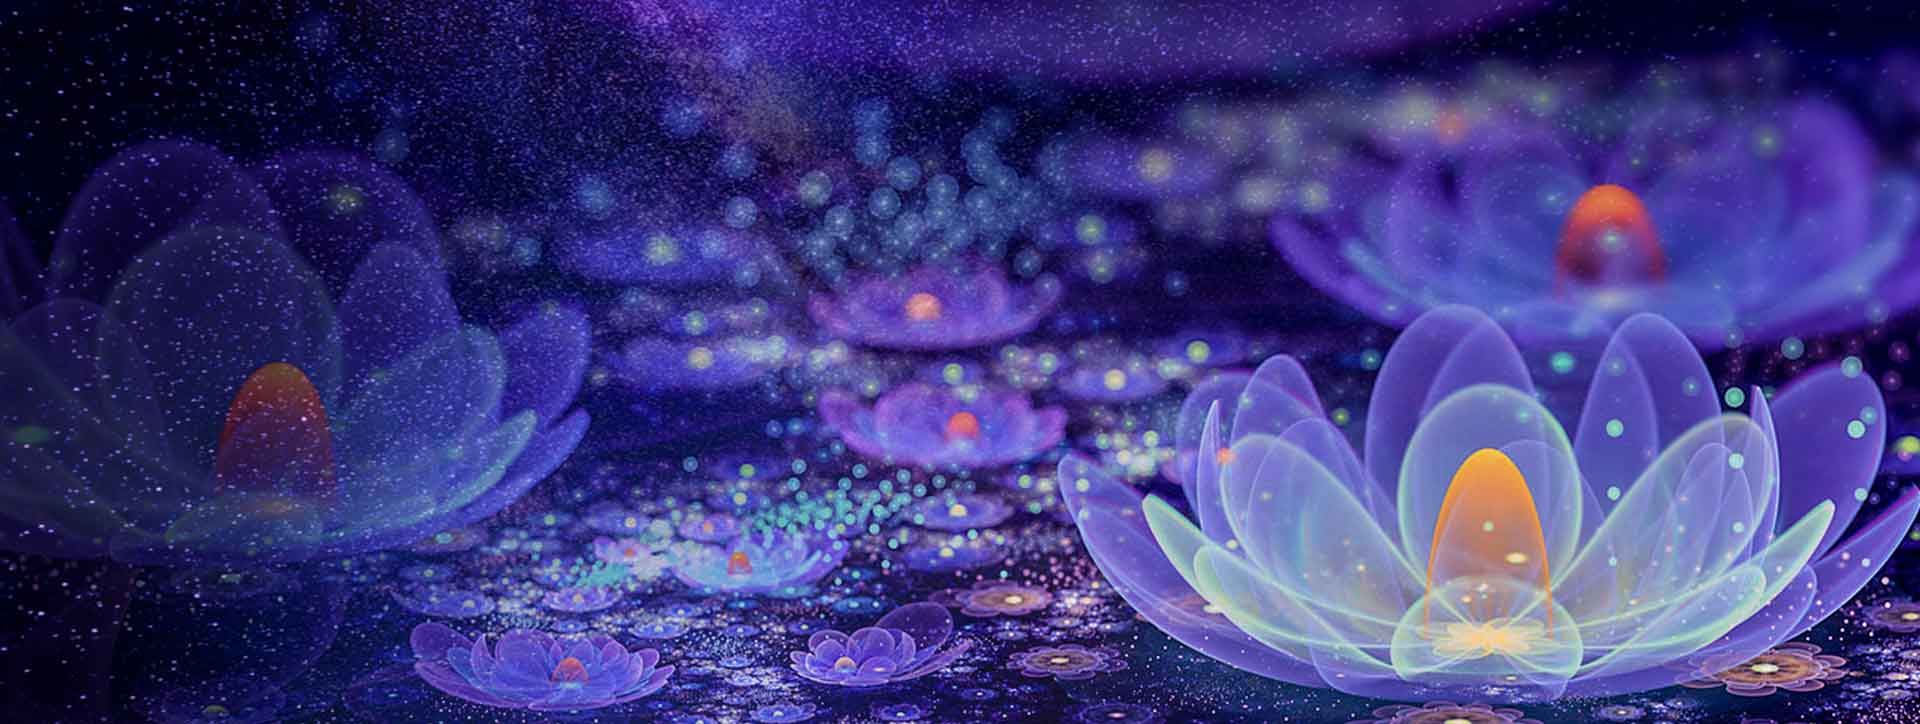
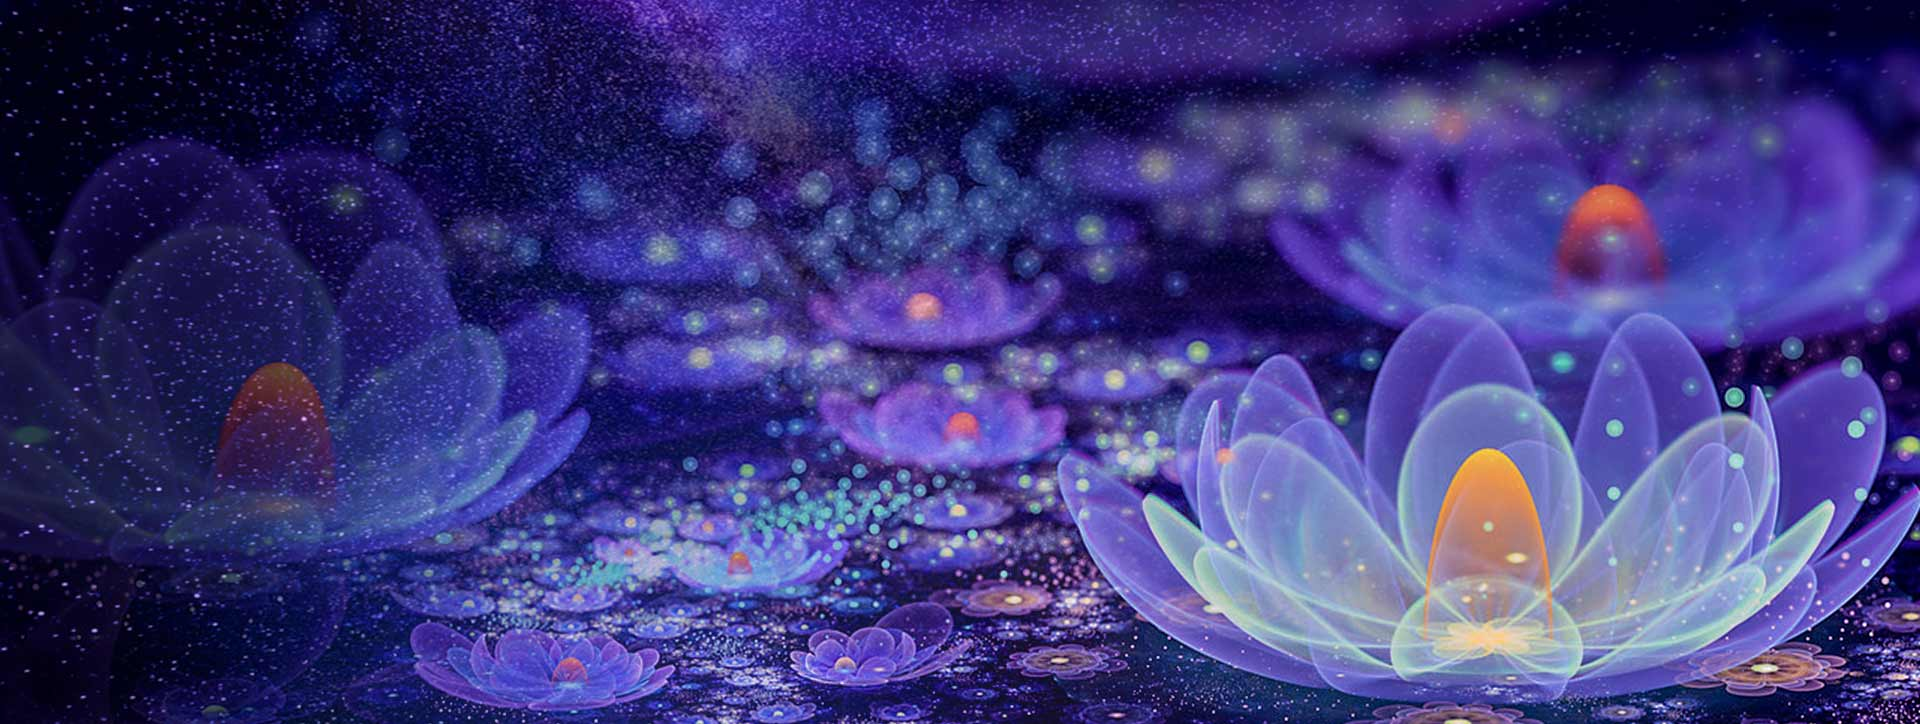
Added markup and selling for the mailing list subscription section, and updated the billboard background image to have less pixelation

Changed region(s): [[0.375, 0.9116, 0.4062, 0.942]]

diff --git a/index.html b/index.html
@@ -71,6 +71,7 @@
             <div class="col-sm-7 hero-text">
               <h1>Temperance in Chaos</h1>
               <h2>Meditations on life, love, and dealing with adversity</h2>
+              <p class="lead">We really need a lead paragraph here. It would help to have a short description before calling the user to action to view articles.</p>
               <p><a class="btn btn-lg btn-danger" href="#">View our latest posts &raquo;</a></p>
             </div><!-- .col -->
           </div><!-- .row -->
@@ -81,20 +82,69 @@
 
     <!-- Opt-in -->
     <section id="opt-in">
-      
+      <div class="container">
+        <div class="row">
+          
+        <div class="col-sm-8">
+          <p class="lead"><strong>Subscribe to our mailing list.</strong> We'll send something special as a thank you.</p>
+        </div><!-- col -->
+
+        <div class="col-sm-4">
+          <button class="btn btn-lg btn-block btn-success" data-toggle="modal" data-target="#opt-inModal">
+            Click here to subscribe
+          </button>
+        </div><!-- col -->
+
+        </div><!-- row -->
+      </div><!-- container -->
     </section><!-- #opt-in -->
 
 
-
-    <!-- Sign up Form -->
-    <section id="sign-up">
-      
-    </section><!-- #sign-up -->
 
     <!-- Footer -->
     <footer>
       
     </footer><!-- footer -->
+
+    <!-- opt-in Modal -->
+  <div class="modal fade" id="opt-inModal">
+    <div class="modal-dialog">
+      <div class="modal-content">
+        
+        <div class="modal-header">
+          <button type="button" class="close" data-dismiss="modal">
+            <span aria-hidden="true">&times;</span>
+            <span class="sr-only">Close</span>
+          </button>
+          <h4 class="modal-title" id="opt-inModalLabel">
+            <i class="fa fa-envelope"></i> Subscribe to our Mailing List
+          </h4>
+        </div><!-- modal-header -->
+
+        <div class="modal-body">
+          <p>Simply enter your name and email! As a thank you for joining us, we're going to give you one of our best articles in a PDF format, <em>for free!</em></p>
+          <form class="form-inline" role="form">
+            <div class="form-group">
+              <label class="sr-only" for="subscribe-name">Your first name</label>
+              <input type="text" class="form-control" id="subscribe-name" placeholder="Your first name">
+            </div><!-- form-group -->
+            <div class="form-group">
+              <label class="sr-only" for="subscribe-email">and your email</label>
+              <input type="text" class="form-control" id="subscribe-email" placeholder="and your email">
+            </div><!-- form-group -->
+
+            <input type="submit" class="btn btn-danger" value="Subscribe!">
+
+            <hr>
+
+            <p><small>By providing your email you consent to receiving occasional promotional emails &amp; newsletters. <br>
+            We respect your privacy and you may unsubscribe at any time.</small></p>
+          </form>
+        </div><!-- modal-body -->
+
+      </div><!-- modal-content -->
+    </div><!-- modal-dialog -->
+  </div><!-- opt-in Modal -->
 
     <!-- jQuery (necessary for Bootstrap's JavaScript plugins) -->
     <script src="https://ajax.googleapis.com/ajax/libs/jquery/1.11.3/jquery.min.js"></script>

diff --git a/css/custom.css b/css/custom.css
@@ -2,6 +2,7 @@
 	Color Scheme
 	Base Purple: 7a36ff;
 	Dark Purple: 4914b2;
+	Background Purple: 56417f;
 	Light Orange: ffab50;
 	Dark Orange: e87d3d;
 	Light Green: 17cc34;
@@ -31,12 +32,17 @@ h1, h2 {
 	margin: 0 0 40px;
 }
 
+h2 {
+	font-size: 2.25em;
+}
+
 h3 {
+	font-size: 1.75em;
 	margin: 20px 0;
 }
 
 h4 {
-	font-size: 18px;
+	font-size: 1.5em;
 }
 
 p {
@@ -56,7 +62,7 @@ a:hover {
 	color: #4914b2;
 }
 
-button, .btn, a.btn {
+button, input, .btn, a.btn {
 	-webkit-font-smoothing: antialiased;
 	text-rendering: optimizelegibility;
 	color: white;
@@ -77,13 +83,13 @@ button, .btn, a.btn {
 }
 
 .btn-success {
-	background-color: #79b044;
-	border: none;
+	background-color: #1db235;
+	border-color: #1db235;
 }
 
 .btn-success:hover {
-	background-color: #6a9b3d;
-	border-color: #6a9b3d;
+	background-color: #17cc34;
+	border-color: #17cc34;
 }
 
 
@@ -146,4 +152,19 @@ nav.navbar {
 
 #hero .hero-text h2 {
 	font-size: 2.25em;
+}
+
+/* Layout */
+
+#opt-in {
+	background: #56417f;
+	padding: 20px 0;
+	color: white;
+	-webkit-font-smoothing: antialiased;
+	text-rendering: optimizelegibility;
+	font-size: 1.2em;
+}
+
+#opt-in p {
+	margin: 7px 0 0 0;
 }
